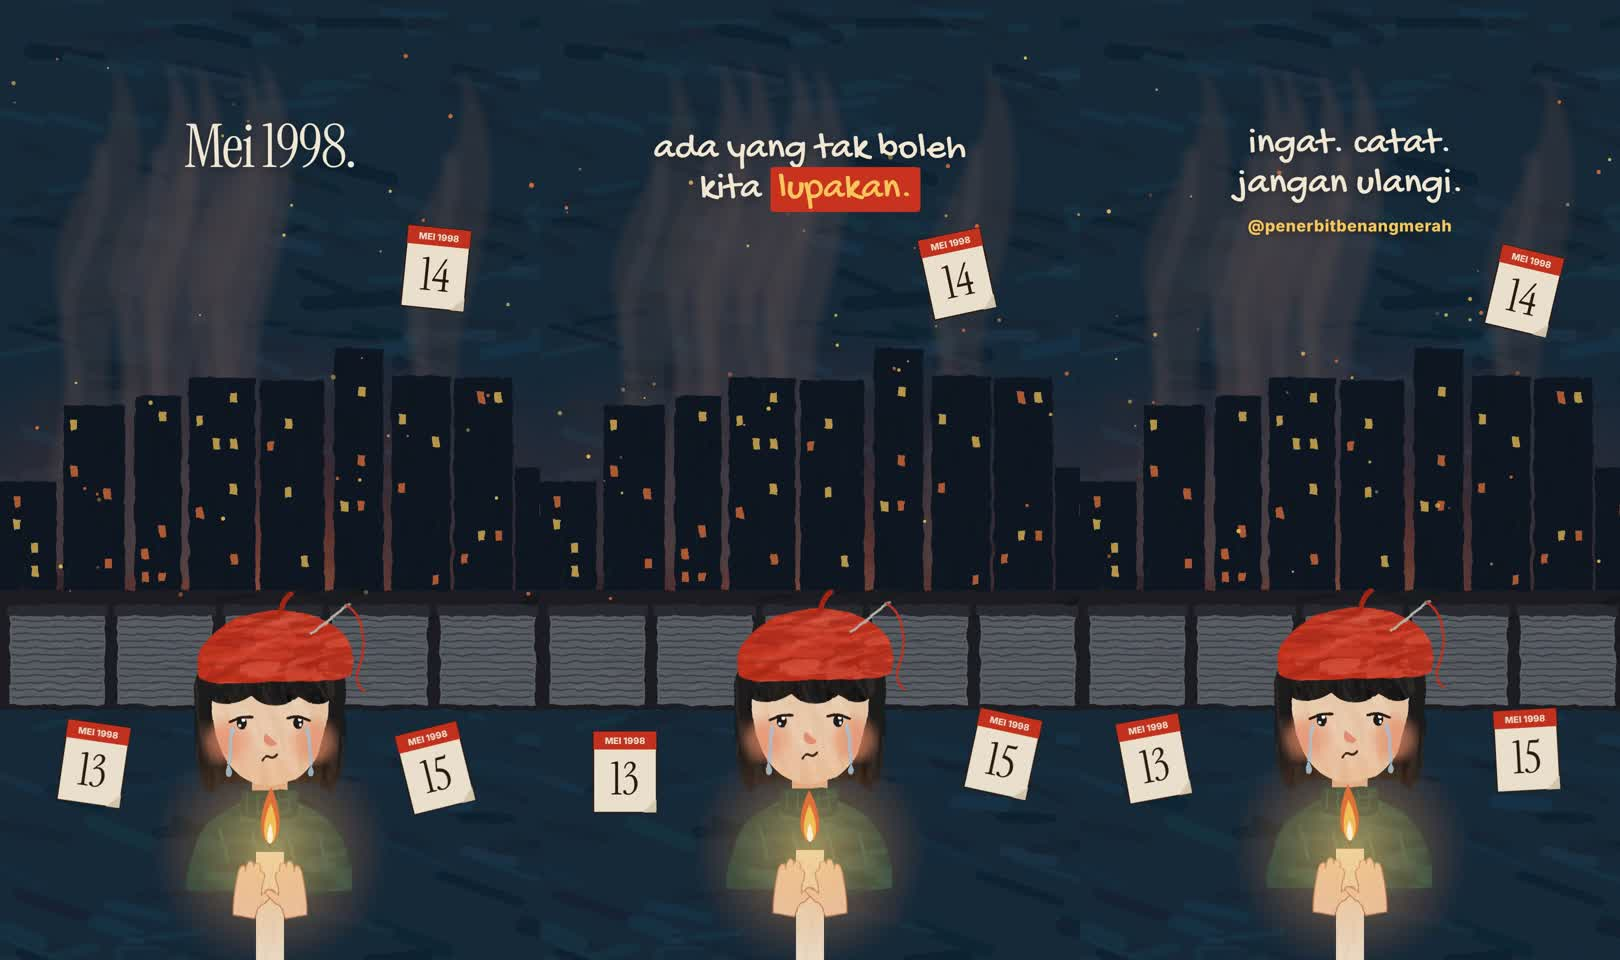
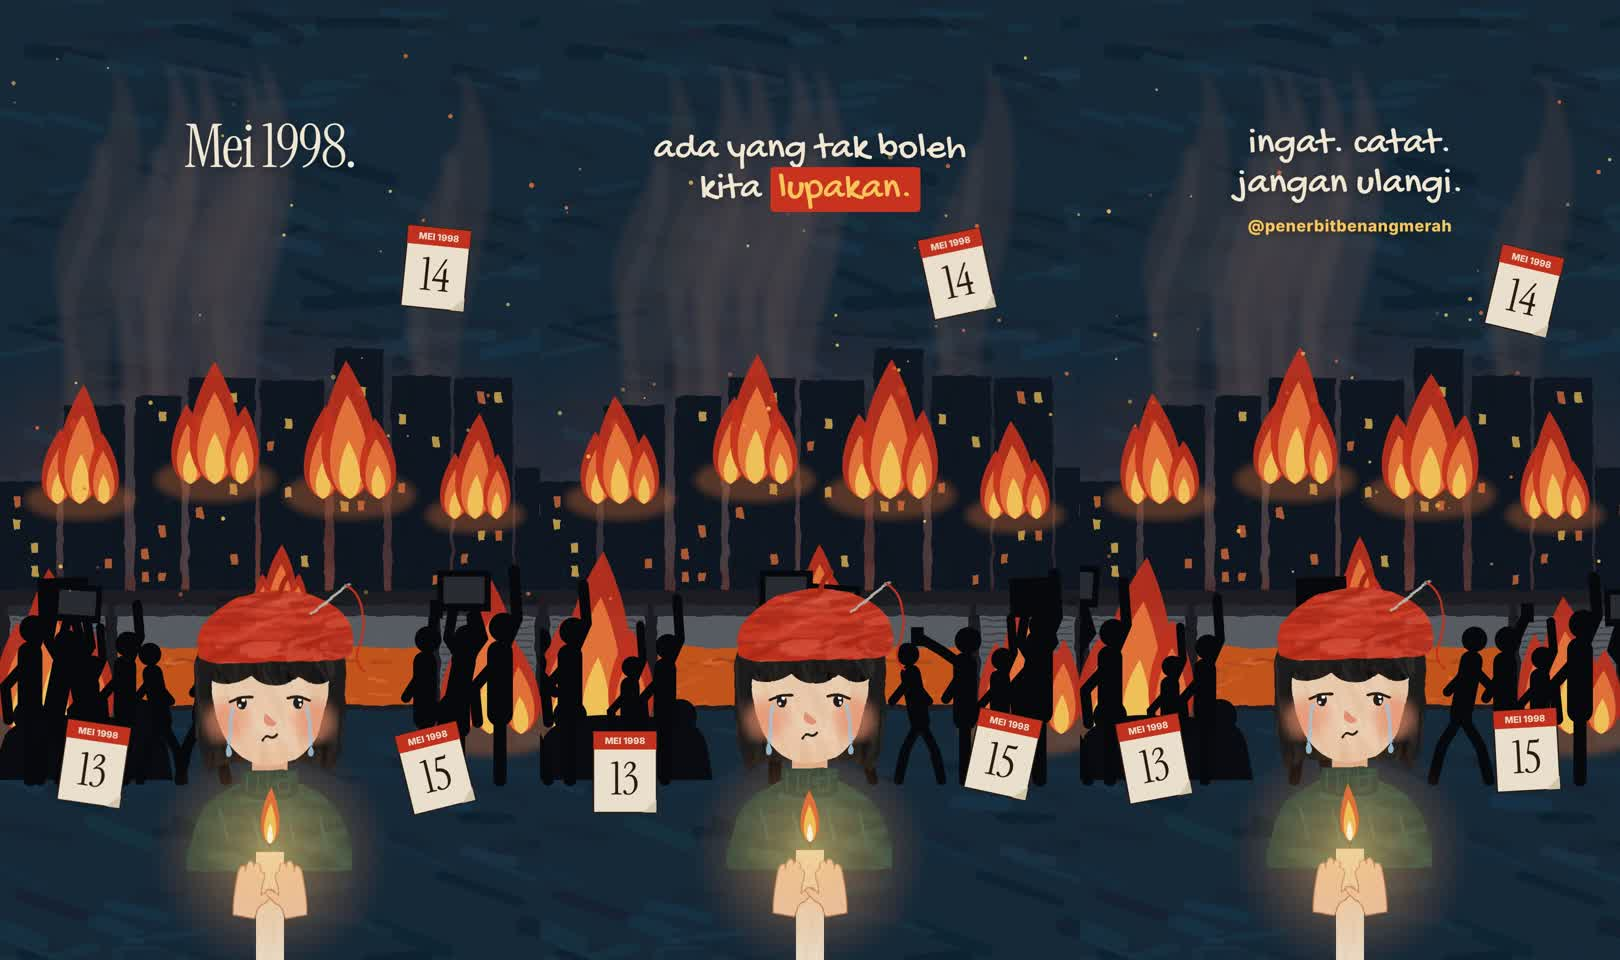
Reel 11 storyboard: May 1998 chaos with fires, crowd and looting silhouettes
Claude-Session: https://claude.ai/code/session_01PjfPmc8sy7deQmezPEpUxb

diff --git a/konten/benang-merah/reels/reel-11.html b/konten/benang-merah/reels/reel-11.html
@@ -18,7 +18,7 @@ const seg=(t,a,b)=>cl(Math.min((t-a)/.4,(b-t)/.4));
 const s=document.getElementById('s');
 s.innerHTML=DEFS+`<defs><radialGradient id="fireglow" cx="50%" cy="100%" r="70%"><stop offset="0" stop-color="#E8743B" stop-opacity=".75"/><stop offset=".5" stop-color="#C8321E" stop-opacity=".25"/><stop offset="1" stop-color="#C8321E" stop-opacity="0"/></radialGradient>
 <radialGradient id="cg"><stop offset="0" stop-color="#FFD27A" stop-opacity=".6"/><stop offset="1" stop-color="#E8743B" stop-opacity="0"/></radialGradient></defs>
-<g id="bg" filter="url(#rough)"></g><rect id="glow" x="-100" y="420" width="1280" height="800" fill="url(#fireglow)"/><g id="smoke"></g><g id="city" filter="url(#rough)"></g><g id="emb"></g><g id="cal"></g><g id="sul"></g><circle id="cgl" cx="540" cy="1700" r="260" fill="url(#cg)"/><g id="fl"></g>
+<g id="bg" filter="url(#rough)"></g><rect id="glow" x="-100" y="300" width="1280" height="1000" fill="url(#fireglow)"/><g id="smoke"></g><g id="city" filter="url(#rough)"></g><g id="fire"></g><g id="crowd"></g><g id="emb"></g><g id="cal"></g><g id="sul"></g><circle id="cgl" cx="540" cy="1700" r="260" fill="url(#cg)"/><g id="fl"></g>
 <rect width="1080" height="1920" filter="url(#paper)" style="mix-blend-mode:multiply" opacity=".3"/>`;
 seed=19;P=document.getElementById('bg');paint('M-30 -30H1110V1950H-30Z','#152A3A',['#1D3A4F','#0E1F2C','#1E2A3A'],380,[10,30],[60,170],0.1);
 // smoke columns (soft, wispy, rising from city)
@@ -32,8 +32,42 @@ P=document.getElementById('city');
 let x=-20;while(x<1100){const w=rr(70,150),h=rr(180,520);paint(`M${x} 1180V${1180-h}H${x+w}V1180Z`,'#0E1620',['#141E2A','#0A1018'],20,[4,10],[20,60],1.57);
  for(let yy=1180-h+30;yy<1150;yy+=46)for(let xx=x+14;xx<x+w-20;xx+=34)if(R()<.25)el('rect',{x:xx,y:yy,width:14,height:20,fill:R()<.5?'#E8743B':'#F7C65A',opacity:.75});x+=w+rr(4,20)}
 paint('M-30 1180H1110V1420H-30Z','#1A1C22',['#22242A','#15161B'],60,[5,12],[40,120],0);
-for(let i=0;i<5;i++){const sx=20+i*215;paint(`M${sx} 1230H${sx+190}V1410H${sx}Z`,'#5A5E66',['#6A6E76','#4A4E56'],20,[3,6],[60,160],0);
+for(let i=0;i<5;i++){const sx=20+i*215;if(i==1||i==3){paint(`M${sx} 1230H${sx+190}V1410H${sx}Z`,'#C8571F',['#E8743B','#A23E1A'],20,[4,8],[20,60],0);paint(`M${sx} 1230H${sx+190}V1290C${sx+120} 1310 ${sx+60} 1280 ${sx} 1300Z`,'#5A5E66',[],0);paint(`M${sx-6} 1210H${sx+196}V1232H${sx-6}Z`,'#2A2C32',[],0);continue}paint(`M${sx} 1230H${sx+190}V1410H${sx}Z`,'#5A5E66',['#6A6E76','#4A4E56'],20,[3,6],[60,160],0);
  for(let yy=1240;yy<1405;yy+=14)el('path',{d:`M${sx+4} ${yy}H${sx+186}`,stroke:'#3A3E46','stroke-width':3});paint(`M${sx-6} 1210H${sx+196}V1232H${sx-6}Z`,'#2A2C32',[],0)}
+
+// ---- fires on buildings & ground ----
+P=document.getElementById('fire');const FIRES=[];
+const fpth=(w,h,dx)=>`M0 0C${-w} ${-h*.12} ${-w*.75+dx*.3} ${-h*.62} ${dx} ${-h}C${w*.75+dx*.3} ${-h*.62} ${w} ${-h*.12} 0 0Z`;
+// fire clusters sit ON surfaces (rooftops & street); 3 tongues each + base glow
+const SPOTS=[[160,1000,1],[430,960,1.1],[700,990,1.2],[950,1030,.9],[110,1460,1.5],[980,1460,1.3],[560,1240,.7]];
+let fi=0;SPOTS.forEach(([x,y,k])=>{el('ellipse',{cx:x,cy:y,rx:110*k,ry:40*k,fill:'#E8743B',opacity:.35,filter:'url(#blur)'});
+ for(const [dx,w,h] of [[-45,50,150],[0,70,230],[48,46,140]]){const g=el('g',{});const a=el('path',{fill:'#C8321E',opacity:.9},g),b=el('path',{fill:'#E8743B'},g),c=el('path',{fill:'#F7C65A'},g);FIRES.push({x:x+dx*k,y:y+8,w:w*k,h:h*k,a,b,c,ph:(fi++)*1.3})}});
+// overturned burning car (left)
+P=document.getElementById('crowd');
+el('path',{d:'M-20 1560L10 1470Q40 1430 130 1430L280 1436Q320 1444 334 1490L346 1560Z',fill:'#0A0B10'});for(const cx of [60,280])el('circle',{cx,cy:1432,r:34,fill:'#0A0B10'});
+// ---- crowd silhouettes ----
+const INK='#07080C';const PEO=[];
+function person(g){const o={};o.head=el('circle',{r:17,fill:INK},g);o.body=el('path',{stroke:INK,'stroke-width':30,'stroke-linecap':'round',fill:'none'},g);
+ o.a1=el('path',{stroke:INK,'stroke-width':13,'stroke-linecap':'round',fill:'none'},g);o.a2=el('path',{stroke:INK,'stroke-width':13,'stroke-linecap':'round',fill:'none'},g);
+ o.l1=el('path',{stroke:INK,'stroke-width':15,'stroke-linecap':'round',fill:'none'},g);o.l2=el('path',{stroke:INK,'stroke-width':15,'stroke-linecap':'round',fill:'none'},g);return o}
+// type: 'fist' (raised fists, standing), 'run' (running empty), 'carry' (running with box/TV), 'throw'
+const TYPES=[['fist',60,1.1],['fist',250,1],['throw',850,1.05],['fist',1000,1.15],['carry',0,1,1],['carry',500,.95,-1],['run',300,1,1],['carry',800,1.05,1],['run',650,.9,-1],['fist',180,.85],['fist',920,.9]];
+TYPES.forEach(([k,x,sc0,dir],i)=>{const sc=sc0*1.5;const g=el('g',{});const o=person(g);o.k=k;o.x=x;o.sc=sc;o.dir=dir||1;o.ph=i*.9;o.g=g;
+ if(k=='carry'){o.box=el('g',{},g);el('rect',{x:-34,y:-30,width:68,height:52,fill:INK},o.box);if(i%2)el('rect',{x:-26,y:-22,width:52,height:34,fill:'#2A2C34'},o.box)}
+ if(k=='throw'){o.obj=el('rect',{x:-8,y:-12,width:16,height:24,fill:INK},g)}
+ PEO.push(o)});
+function pose(o,t){const st=W0*(o.k=='fist'||o.k=='throw'?3:20)*t+o.ph;const GY=1560;let x=o.x;
+ if(o.k=='run'||o.k=='carry'){x=mod(o.x+o.dir*216*t,1300)-110}
+ o.g.setAttribute('transform',`translate(${x.toFixed(1)} ${GY}) scale(${o.dir*o.sc} ${o.sc})`);
+ const run=o.k=='run'||o.k=='carry';const bob=run?Math.abs(Math.sin(st))*8:Math.sin(st)*3;const lean=run?14:0;
+ const hip=[0,-80-bob],sh=[lean,-150-bob];o.body.setAttribute('d',`M${hip[0]} ${hip[1]}L${sh[0]} ${sh[1]}`);o.head.setAttribute('cx',lean+4);o.head.setAttribute('cy',-180-bob);
+ const sw=run?Math.sin(st):0;
+ o.l1.setAttribute('d',`M0 ${hip[1]}L${(sw*28).toFixed(1)} ${(-40-bob/2).toFixed(1)}L${(sw*40).toFixed(1)} 0`);o.l2.setAttribute('d',`M0 ${hip[1]}L${(-sw*28).toFixed(1)} ${(-40-bob/2).toFixed(1)}L${(-sw*40).toFixed(1)} 0`);
+ if(o.k=='fist'){const u=Math.sin(st)*10;o.a1.setAttribute('d',`M${lean} ${sh[1]+6}L${lean+20} ${sh[1]-40}L${lean+16} ${(sh[1]-86+u).toFixed(1)}`);o.a2.setAttribute('d',`M${lean} ${sh[1]+6}L${lean-30} ${sh[1]+40}L${lean-26} ${sh[1]+80}`)}
+ else if(o.k=='carry'){o.a1.setAttribute('d',`M${lean} ${sh[1]+4}L${lean+24} ${sh[1]-30}L${lean+14} ${sh[1]-64}`);o.a2.setAttribute('d',`M${lean} ${sh[1]+4}L${lean-20} ${sh[1]-30}L${lean-14} ${sh[1]-64}`);o.box.setAttribute('transform',`translate(${lean} ${(sh[1]-86).toFixed(1)}) rotate(${(Math.sin(st)*4).toFixed(1)})`)}
+ else if(o.k=='throw'){const p=mod(t/2.5,1);const ang=-150+p*180;const ax=Math.cos(ang*Math.PI/180)*70,ay=Math.sin(ang*Math.PI/180)*70;o.a1.setAttribute('d',`M${lean} ${sh[1]+4}L${(lean+ax*.5).toFixed(1)} ${(sh[1]+ay*.5).toFixed(1)}L${(lean+ax).toFixed(1)} ${(sh[1]+ay).toFixed(1)}`);o.a2.setAttribute('d',`M${lean} ${sh[1]+6}L${lean-24} ${sh[1]+44}`);
+  o.obj.setAttribute('transform',p<.55?`translate(${(lean+ax).toFixed(1)} ${(sh[1]+ay).toFixed(1)})`:`translate(${(lean+ax+(p-.55)*900).toFixed(1)} ${(sh[1]+ay-(p-.55)*600+(p-.55)**2*1400).toFixed(1)}) rotate(${(p*720).toFixed(0)})`)}
+ else{o.a1.setAttribute('d',`M${lean} ${sh[1]+6}L${(lean+sw*-34).toFixed(1)} ${sh[1]+40}`);o.a2.setAttribute('d',`M${lean} ${sh[1]+6}L${(lean+sw*34).toFixed(1)} ${sh[1]+40}`)}}
 // embers
 P=document.getElementById('emb');const EM=[];for(let i=0;i<40;i++)EM.push([el('circle',{r:rr(2,5),fill:R()<.5?'#F7C65A':'#E8743B'}),rr(0,1080),rr(0,1),Math.round(rr(1,3)),rr(0,6)]);
 // calendar pages
@@ -43,13 +77,15 @@ P=document.getElementById('cal');const CA=[];[['13','MEI 1998'],['14','MEI 1998'
  el('text',{x:0,y:50,'text-anchor':'middle','font-family':'Instrument Serif','font-size':100,fill:'#2A1A14'},g).textContent=d;
  el('path',{d:'M70 60L40 90L70 90Z',fill:'#D8CBB0'},g);CA.push([g,[170,860,900][i],[1520,560,1520][i],i*2.1])});
 // Sulam with candle
-P=document.getElementById('sul');const SU=el('g',{});const si=el('g',{transform:'translate(285 1130) scale(1.5)',filter:'url(#wob)'},SU);seed=9;sulam(si,'menangis');
+P=document.getElementById('sul');const SU=el('g',{});const si=el('g',{transform:'translate(285 1090) scale(1.5)',filter:'url(#wob)'},SU);seed=9;sulam(si,'menangis');
 P=SU;paint('M512 1700H568V1960H512Z',C.cream,['#E7D8BD'],14,[3,6],[20,60],1.57);el('path',{d:'M540 1700v-18',stroke:'#2A1A14','stroke-width':5});
 const HAND='M-30 0C-36 -30 -38 -60 -36 -110Q-36 -126 -27 -126Q-19 -126 -19 -112Q-19 -140 -10 -140Q-1 -140 -1 -126Q-1 -138 8 -138Q17 -138 17 -122Q17 -120 24 -118Q32 -116 31 -102C30 -80 30 -70 30 -62C42 -70 56 -86 60 -78C64 -70 52 -50 34 -36C28 -24 26 -10 24 0Z';
 for(const [hx,m] of [[490,1],[590,-1]]){const g=el('g',{transform:`translate(${hx} 1830) rotate(${m*10}) scale(${.8*m} .8)`,filter:'url(#wob)'},SU);const kp=P;P=g;paint(HAND,C.skin,SK,14,[3,6],[10,30],1.5);el('path',{d:HAND,fill:'none',stroke:'#B5785A','stroke-width':3});P=kp}
 P=document.getElementById('fl');const F1=el('path',{fill:'#E8743B'}),F2=el('path',{fill:'#F7C65A'}),F3=el('path',{fill:'#FFF6DC'});
 const fp=(w,h,dx)=>`M0 0C${-w} ${-h*.12} ${-w*.75+dx*.3} ${-h*.62} ${dx} ${-h}C${w*.75+dx*.3} ${-h*.62} ${w} ${-h*.12} 0 0Z`;
 window.render=function(t){t=mod(t,L);
+ FIRES.forEach(f=>{const sw=pn(t,[3,7,13],f.ph)*f.w*.4,fl=1+pn(t,[19,31,47],f.ph)*.15;[[f.a,1,1,1],[f.b,.7,.75,.7],[f.c,.38,.42,.4]].forEach(([e,a,b,c])=>{e.setAttribute('d',fpth(f.w*a,f.h*b*fl,sw*c));e.setAttribute('transform',`translate(${f.x} ${f.y})`)})});
+ PEO.forEach(o=>pose(o,t));
  document.getElementById('glow').setAttribute('opacity',(.8+pn(t,[3,7,11],0)*.2).toFixed(2));
  SM.forEach(([g,ph,k])=>g.setAttribute('transform',`translate(${(Math.sin(W0*k*t+ph)*20).toFixed(1)} ${(Math.sin(W0*t+ph)*10).toFixed(1)})`));
  EM.forEach(([e,x,ph,k,p2])=>{const y=1200-mod(ph+t/L*k,1)*1100;e.setAttribute('cx',(x+Math.sin(W0*3*t+p2)*30).toFixed(1));e.setAttribute('cy',y.toFixed(1));e.setAttribute('opacity',(.3+.6*Math.abs(Math.sin(W0*5*t+p2))).toFixed(2))});
